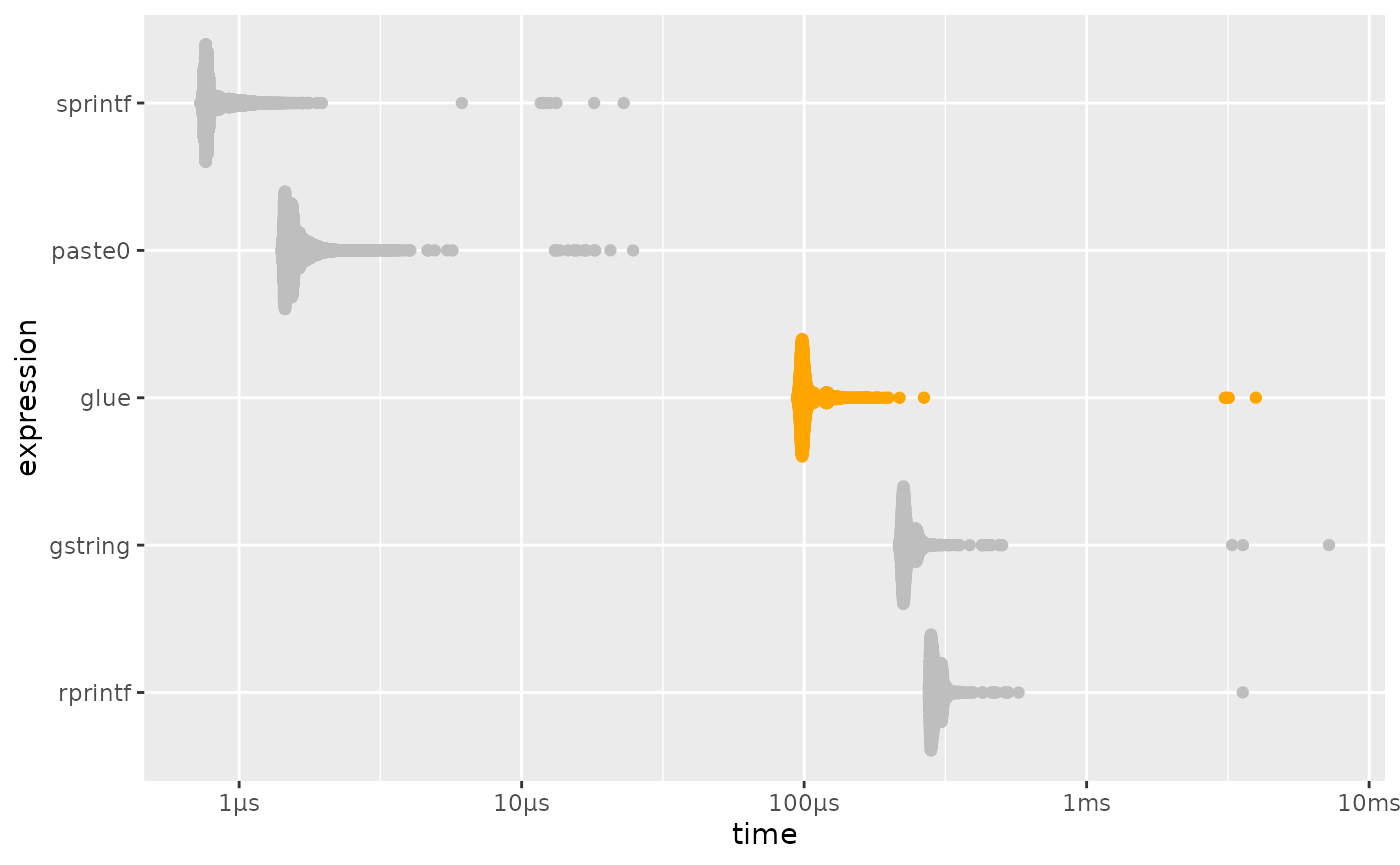
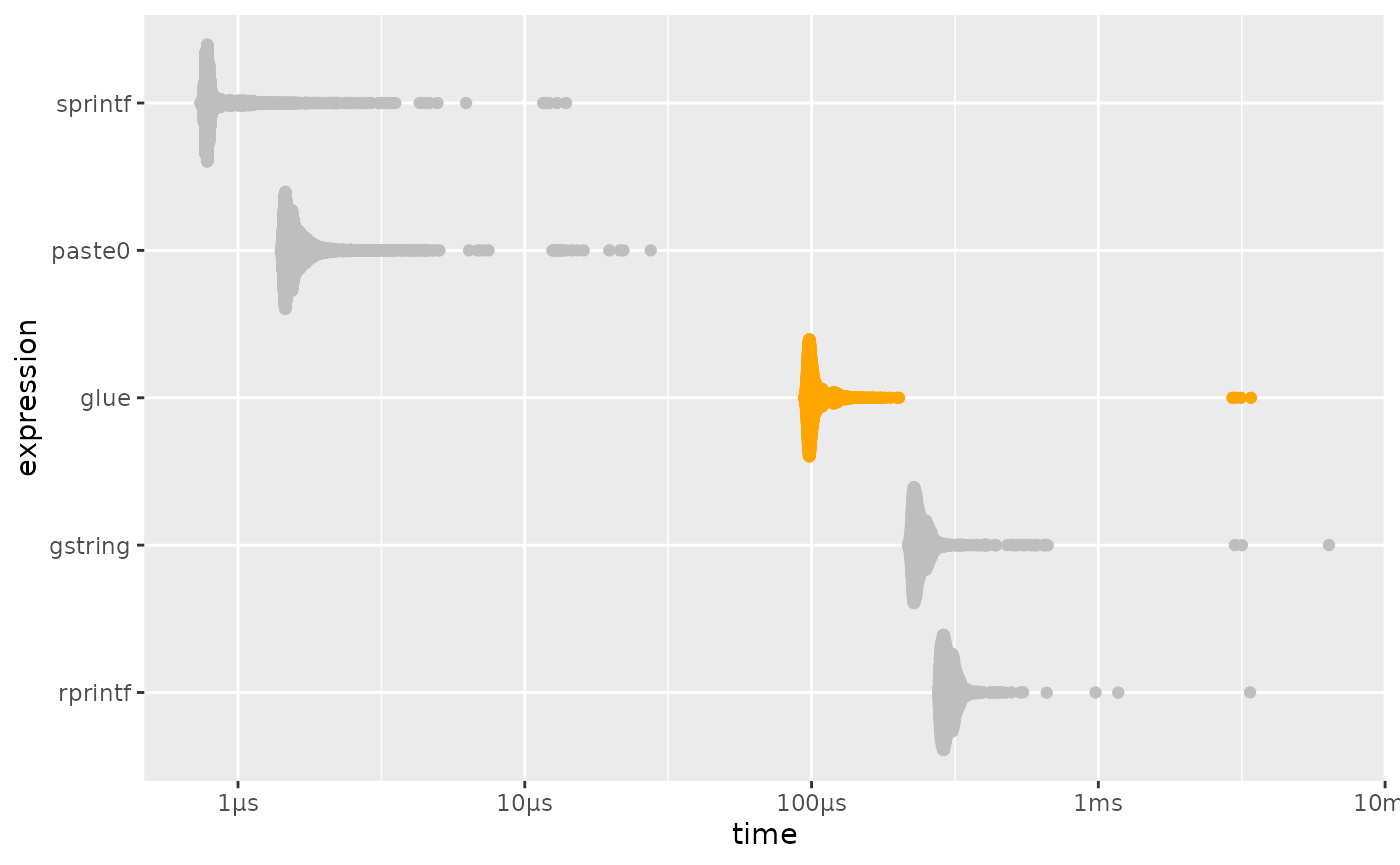
Deploying to gh-pages from @ tidyverse/glue@d0277e9c1c84981df5567de61d07ad77a48b441a 🚀

diff --git a/dev/articles/speed.html b/dev/articles/speed.html
@@ -156,11 +156,11 @@ this benchmark, but is now formally marked as “superseded”, in favor of
 <span><span class="co">#&gt; <span style="color: #949494;"># A tibble: 5 × 6</span></span></span>
 <span><span class="co">#&gt;   expression      min   median `itr/sec` mem_alloc `gc/sec`</span></span>
 <span><span class="co">#&gt;   <span style="color: #949494; font-style: italic;">&lt;bch:expr&gt;</span> <span style="color: #949494; font-style: italic;">&lt;bch:tm&gt;</span> <span style="color: #949494; font-style: italic;">&lt;bch:tm&gt;</span>     <span style="color: #949494; font-style: italic;">&lt;dbl&gt;</span> <span style="color: #949494; font-style: italic;">&lt;bch:byt&gt;</span>    <span style="color: #949494; font-style: italic;">&lt;dbl&gt;</span></span></span>
-<span><span class="co">#&gt; <span style="color: #BCBCBC;">1</span> sprintf    731.09ns 772.07ns  1<span style="text-decoration: underline;">190</span>075.        0B     0   </span></span>
-<span><span class="co">#&gt; <span style="color: #BCBCBC;">2</span> paste0       1.41µs   1.54µs   <span style="text-decoration: underline;">614</span>898.        0B     0   </span></span>
-<span><span class="co">#&gt; <span style="color: #BCBCBC;">3</span> glue        94.41µs   99.4µs     <span style="text-decoration: underline;">9</span>667.  141.72KB     8.22</span></span>
-<span><span class="co">#&gt; <span style="color: #BCBCBC;">4</span> gstring    216.37µs 228.46µs     <span style="text-decoration: underline;">4</span>238.    2.43MB     6.17</span></span>
-<span><span class="co">#&gt; <span style="color: #BCBCBC;">5</span> rprintf    275.84µs 287.28µs     <span style="text-decoration: underline;">3</span>388.  504.06KB     2.01</span></span>
+<span><span class="co">#&gt; <span style="color: #BCBCBC;">1</span> sprintf     741.1ns 791.04ns  1<span style="text-decoration: underline;">165</span>775.        0B     0   </span></span>
+<span><span class="co">#&gt; <span style="color: #BCBCBC;">2</span> paste0       1.41µs   1.55µs   <span style="text-decoration: underline;">604</span>491.        0B     0   </span></span>
+<span><span class="co">#&gt; <span style="color: #BCBCBC;">3</span> glue        94.32µs 100.04µs     <span style="text-decoration: underline;">9</span>621.  141.72KB     8.21</span></span>
+<span><span class="co">#&gt; <span style="color: #BCBCBC;">4</span> gstring    217.03µs 235.69µs     <span style="text-decoration: underline;">4</span>086.    2.43MB     6.15</span></span>
+<span><span class="co">#&gt; <span style="color: #BCBCBC;">5</span> rprintf    276.38µs 296.88µs     <span style="text-decoration: underline;">3</span>290.  504.06KB     2.01</span></span>
 <span></span>
 <span><span class="co"># plotting function defined in a hidden chunk</span></span>
 <span><span class="fu">plot_comparison</span><span class="op">(</span><span class="va">simple</span><span class="op">)</span></span></code></pre></div>
@@ -203,11 +203,11 @@ performance is much closer to that of <code><a href="https://rdrr.io/r/base/past
 <span><span class="co">#&gt; <span style="color: #949494;"># A tibble: 5 × 6</span></span></span>
 <span><span class="co">#&gt;   expression      min   median `itr/sec` mem_alloc `gc/sec`</span></span>
 <span><span class="co">#&gt;   <span style="color: #949494; font-style: italic;">&lt;bch:expr&gt;</span> <span style="color: #949494; font-style: italic;">&lt;bch:tm&gt;</span> <span style="color: #949494; font-style: italic;">&lt;bch:tm&gt;</span>     <span style="color: #949494; font-style: italic;">&lt;dbl&gt;</span> <span style="color: #949494; font-style: italic;">&lt;bch:byt&gt;</span>    <span style="color: #949494; font-style: italic;">&lt;dbl&gt;</span></span></span>
-<span><span class="co">#&gt; <span style="color: #BCBCBC;">1</span> sprintf       8.3ms   8.34ms     120.    781.3KB     4.20</span></span>
-<span><span class="co">#&gt; <span style="color: #BCBCBC;">2</span> paste0       8.37ms    8.4ms     118.    781.3KB     4.15</span></span>
-<span><span class="co">#&gt; <span style="color: #BCBCBC;">3</span> gstring     11.45ms  11.55ms      85.2    1.53MB     6.39</span></span>
-<span><span class="co">#&gt; <span style="color: #BCBCBC;">4</span> glue         12.5ms  12.96ms      77.1    2.29MB     9.64</span></span>
-<span><span class="co">#&gt; <span style="color: #BCBCBC;">5</span> rprintf      27.6ms  27.84ms      35.6    3.05MB     4.45</span></span>
+<span><span class="co">#&gt; <span style="color: #BCBCBC;">1</span> sprintf      8.33ms   8.38ms     119.    781.3KB     4.17</span></span>
+<span><span class="co">#&gt; <span style="color: #BCBCBC;">2</span> paste0       8.39ms   8.42ms     118.    781.3KB     4.14</span></span>
+<span><span class="co">#&gt; <span style="color: #BCBCBC;">3</span> gstring     11.36ms  11.53ms      86.8    1.53MB     6.51</span></span>
+<span><span class="co">#&gt; <span style="color: #BCBCBC;">4</span> glue        12.37ms  12.88ms      77.5    2.29MB     7.05</span></span>
+<span><span class="co">#&gt; <span style="color: #BCBCBC;">5</span> rprintf     27.28ms  27.59ms      36.0    3.05MB     2.12</span></span>
 <span></span>
 <span><span class="co"># plotting function defined in a hidden chunk</span></span>
 <span><span class="fu">plot_comparison</span><span class="op">(</span><span class="va">vectorized</span><span class="op">)</span></span></code></pre></div>

diff --git a/dev/articles/speed.md b/dev/articles/speed.md
@@ -65,11 +65,11 @@ simple |>
 #> # A tibble: 5 × 6
 #>   expression      min   median `itr/sec` mem_alloc `gc/sec`
 #>   <bch:expr> <bch:tm> <bch:tm>     <dbl> <bch:byt>    <dbl>
-#> 1 sprintf    731.09ns 772.07ns  1190075.        0B     0   
-#> 2 paste0       1.41µs   1.54µs   614898.        0B     0   
-#> 3 glue        94.41µs   99.4µs     9667.  141.72KB     8.22
-#> 4 gstring    216.37µs 228.46µs     4238.    2.43MB     6.17
-#> 5 rprintf    275.84µs 287.28µs     3388.  504.06KB     2.01
+#> 1 sprintf     741.1ns 791.04ns  1165775.        0B     0   
+#> 2 paste0       1.41µs   1.55µs   604491.        0B     0   
+#> 3 glue        94.32µs 100.04µs     9621.  141.72KB     8.21
+#> 4 gstring    217.03µs 235.69µs     4086.    2.43MB     6.15
+#> 5 rprintf    276.38µs 296.88µs     3290.  504.06KB     2.01
 
 # plotting function defined in a hidden chunk
 plot_comparison(simple)
@@ -125,11 +125,11 @@ vectorized |>
 #> # A tibble: 5 × 6
 #>   expression      min   median `itr/sec` mem_alloc `gc/sec`
 #>   <bch:expr> <bch:tm> <bch:tm>     <dbl> <bch:byt>    <dbl>
-#> 1 sprintf       8.3ms   8.34ms     120.    781.3KB     4.20
-#> 2 paste0       8.37ms    8.4ms     118.    781.3KB     4.15
-#> 3 gstring     11.45ms  11.55ms      85.2    1.53MB     6.39
-#> 4 glue         12.5ms  12.96ms      77.1    2.29MB     9.64
-#> 5 rprintf      27.6ms  27.84ms      35.6    3.05MB     4.45
+#> 1 sprintf      8.33ms   8.38ms     119.    781.3KB     4.17
+#> 2 paste0       8.39ms   8.42ms     118.    781.3KB     4.14
+#> 3 gstring     11.36ms  11.53ms      86.8    1.53MB     6.51
+#> 4 glue        12.37ms  12.88ms      77.5    2.29MB     7.05
+#> 5 rprintf     27.28ms  27.59ms      36.0    3.05MB     2.12
 
 # plotting function defined in a hidden chunk
 plot_comparison(vectorized)
